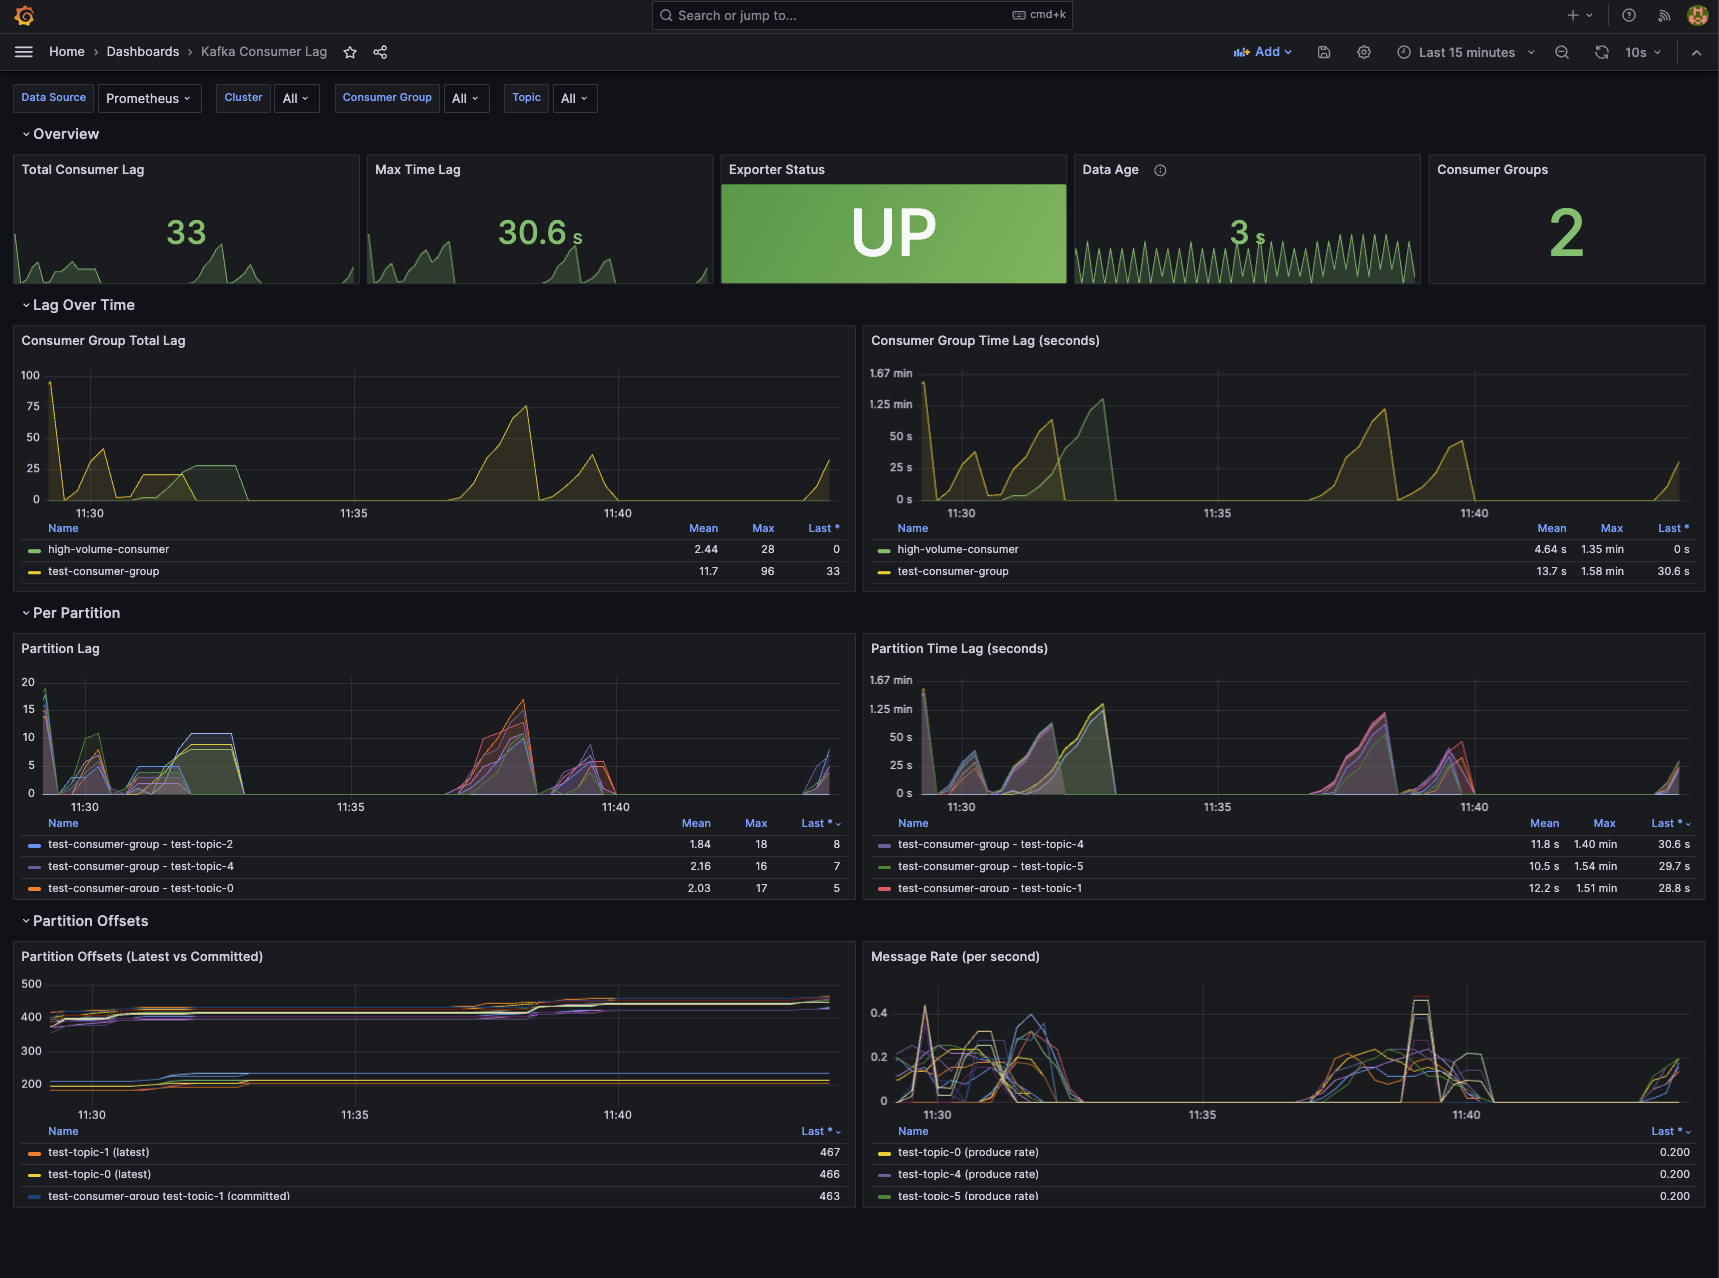
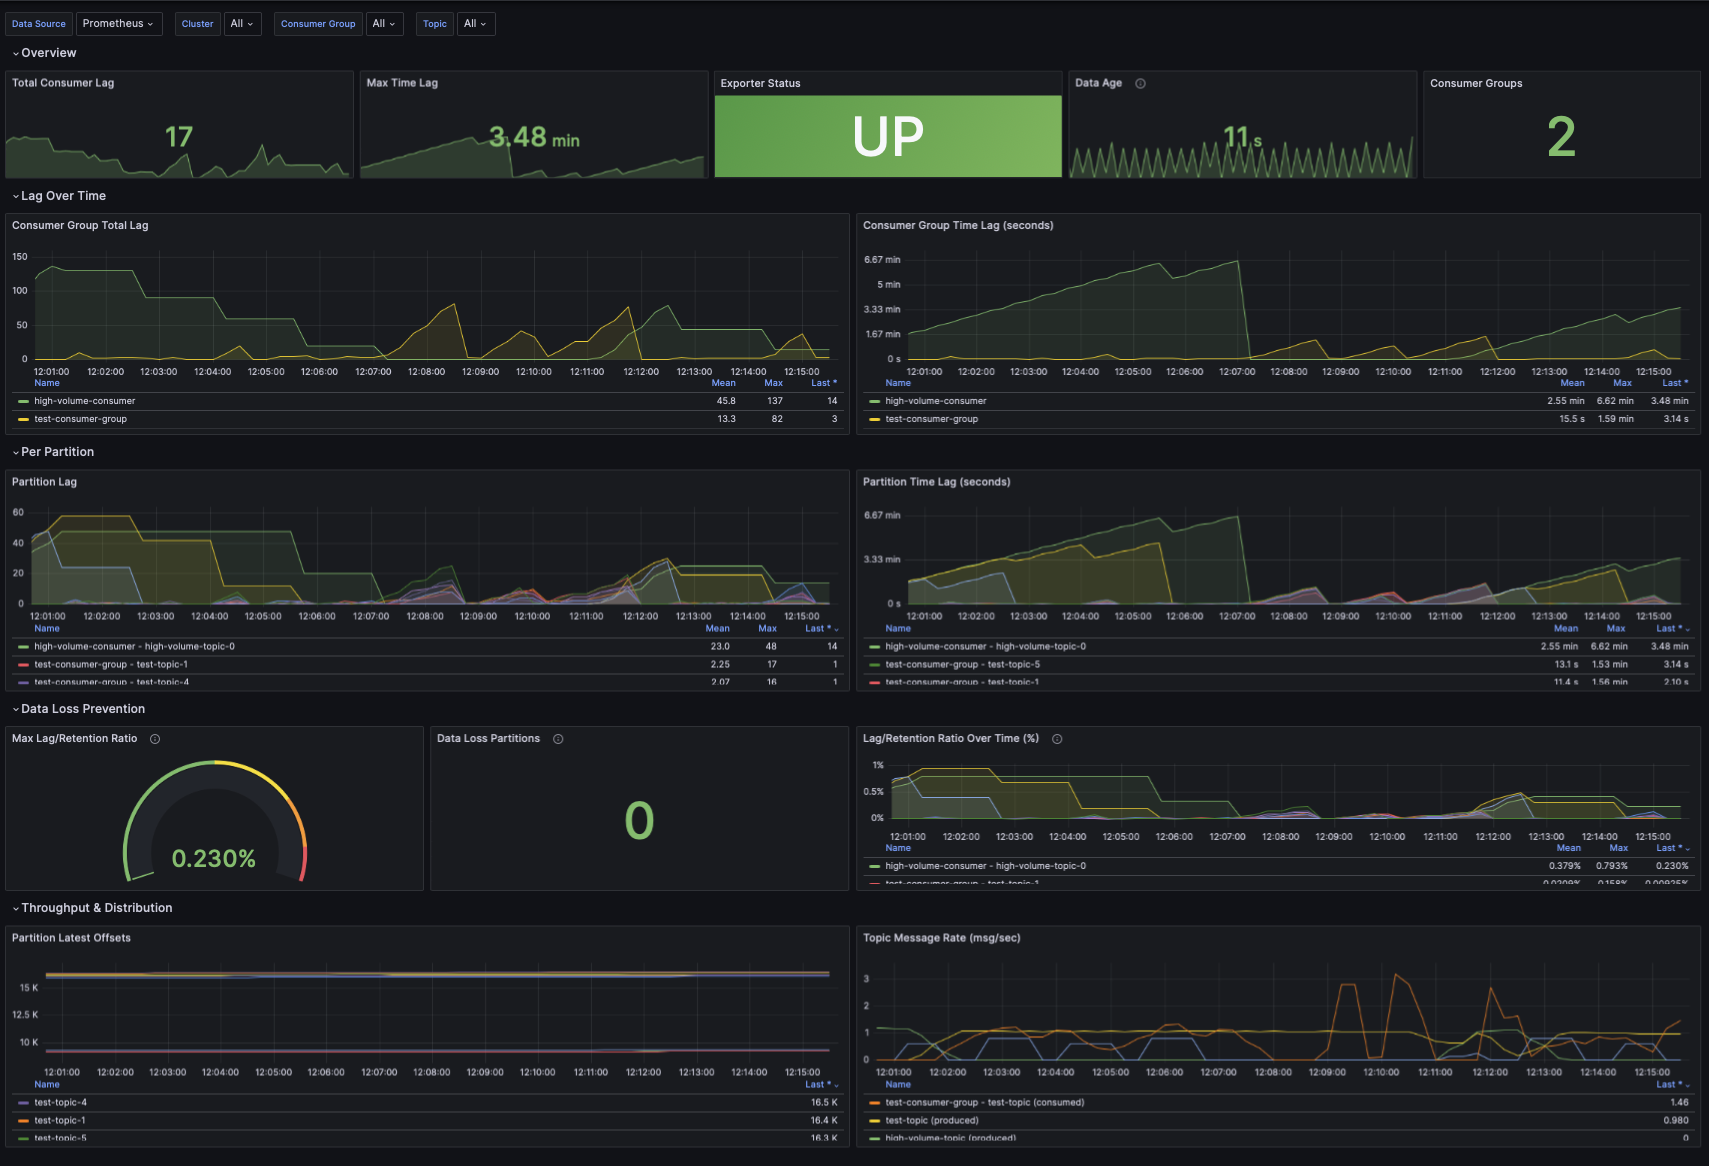
docs: add data loss detection metrics documentation
- Add Data Loss Detection to features list
  - Document new metrics: messages_lost, retention_margin, lag_retention_ratio
  - Explain lag_retention_ratio calculation formula with examples
  - Include example Prometheus alert rules for prevention and detection
  - Update label references from retention_detected to data_loss_detected
  - Replace retention_detected_total with data_loss_partitions_total metric

diff --git a/README.md b/README.md
@@ -17,6 +17,7 @@ A high-performance Apache Kafka® consumer group lag exporter written in Rust. C
 
 - **Accurate Time Lag Calculation** — Directly reads message timestamps from Kafka® partitions instead of interpolating from lookup tables
 - **Compaction & Retention Detection** — Automatically detects when log compaction or retention deletion may affect time lag accuracy
+- **Data Loss Detection** — Detects and quantifies message loss when consumers fall behind retention, with metrics for prevention alerts
 - **Dual Export Support** — Native Prometheus HTTP endpoint (`/metrics`) and OpenTelemetry OTLP export
 - **Non-blocking Scrapes** — Continuous background collection with instant metric reads (no Kafka® calls during Prometheus scrapes)
 - **Multi-cluster Support** — Monitor multiple Kafka® clusters with independent collection loops and failure isolation
@@ -68,15 +69,82 @@ Both **log compaction** (`cleanup.policy=compact`) and **retention-based deletio
 **How it happens:** When a consumer's committed offset points to a deleted message, Kafka returns the next available message instead. This message has a later timestamp, making time lag appear smaller than reality.
 
 **Detection:** klag-exporter automatically detects these conditions and exposes:
-- `compaction_detected` and `retention_detected` labels on `kafka_consumergroup_group_lag_seconds`
-- `kafka_lag_exporter_compaction_detected_total` and `kafka_lag_exporter_retention_detected_total` counters
+- `compaction_detected` and `data_loss_detected` labels on `kafka_consumergroup_group_lag_seconds`
+- `kafka_lag_exporter_compaction_detected_total` and `kafka_lag_exporter_data_loss_partitions_total` counters
 
 **Recommendations:**
 - For affected partitions, rely more on offset lag than time lag
-- Alert on `kafka_lag_exporter_compaction_detected_total > 0` or `kafka_lag_exporter_retention_detected_total > 0`
+- Alert on `kafka_lag_exporter_compaction_detected_total > 0` or `kafka_lag_exporter_data_loss_partitions_total > 0`
 - Investigate if detection counts are high — may indicate very lagging consumers or aggressive compaction/retention settings
 
 See [docs/compaction-detection.md](docs/compaction-detection.md) for detailed technical explanation.
+
+### Data Loss Detection
+
+When a consumer falls too far behind, Kafka® retention policies may delete messages before they're processed. klag-exporter detects and quantifies this:
+
+**How it works:** Data loss occurs when a consumer group's committed offset falls below the partition's low watermark (earliest available offset). This means messages were deleted by retention before the consumer could process them.
+
+**Understanding `lag_retention_ratio`:**
+
+This metric shows what percentage of the available retention window is occupied by consumer lag:
+
+```
+                    current_lag
+lag_retention_ratio = ─────────────────── × 100
+                    retention_window
+
+where:
+  retention_window = high_watermark - low_watermark  (total offsets in partition)
+  current_lag      = high_watermark - committed_offset
+```
+
+| Ratio | Meaning |
+|-------|---------|
+| 0% | Consumer is caught up (no lag) |
+| 50% | Consumer lag equals half the retention window |
+| 100% | Consumer is at the deletion boundary — next retention cycle may cause data loss |
+| >100% | Data loss has already occurred |
+
+Example: If a partition has offsets 1000-2000 (retention window = 1000) and consumer is at offset 1200:
+- current_lag = 2000 - 1200 = 800
+- lag_retention_ratio = (800 / 1000) × 100 = **80%** — consumer is 80% of the way to data loss
+
+**Metrics provided:**
+
+| Metric | Description | Example Use |
+|--------|-------------|-------------|
+| `kafka_consumergroup_group_messages_lost` | Count of messages deleted before processing | Alert when > 0 |
+| `kafka_consumergroup_group_retention_margin` | Distance to deletion boundary | Alert when approaching 0 |
+| `kafka_consumergroup_group_lag_retention_ratio` | Lag as % of retention window | Alert when > 80% |
+| `data_loss_detected` label | Boolean flag on lag metrics | Filter affected partitions |
+
+**Prevention strategy:**
+- Set alerts on `retention_margin` approaching zero (e.g., < 10% of typical lag)
+- Monitor `lag_retention_ratio` — values approaching 100% indicate imminent data loss
+- Use `messages_lost > 0` for post-incident detection
+- Consider increasing topic retention or scaling consumers when ratios are high
+
+**Example Prometheus alerts:**
+
+```yaml
+# Imminent data loss warning
+- alert: KafkaConsumerNearDataLoss
+  expr: kafka_consumergroup_group_lag_retention_ratio > 80
+  for: 5m
+  labels:
+    severity: warning
+  annotations:
+    summary: "Consumer {{ $labels.group }} approaching retention boundary"
+
+# Data loss occurred
+- alert: KafkaConsumerDataLoss
+  expr: kafka_consumergroup_group_messages_lost > 0
+  labels:
+    severity: critical
+  annotations:
+    summary: "Consumer {{ $labels.group }} lost {{ $value }} messages"
+```
 
 ## Quick Start
 
@@ -194,7 +262,15 @@ Use `${VAR_NAME}` syntax in config values. The exporter will substitute with env
 |--------|--------|-------------|
 | `kafka_consumergroup_group_offset` | cluster_name, group, topic, partition, member_host, consumer_id, client_id | Committed offset |
 | `kafka_consumergroup_group_lag` | cluster_name, group, topic, partition, member_host, consumer_id, client_id | Offset lag |
-| `kafka_consumergroup_group_lag_seconds` | cluster_name, group, topic, partition, member_host, consumer_id, client_id | Time lag in seconds |
+| `kafka_consumergroup_group_lag_seconds` | cluster_name, group, topic, partition, member_host, consumer_id, client_id, compaction_detected, data_loss_detected | Time lag in seconds |
+
+### Data Loss Detection Metrics
+
+| Metric | Labels | Description |
+|--------|--------|-------------|
+| `kafka_consumergroup_group_messages_lost` | cluster_name, group, topic, partition, member_host, consumer_id, client_id | Messages deleted by retention before consumer processed them |
+| `kafka_consumergroup_group_retention_margin` | cluster_name, group, topic, partition, member_host, consumer_id, client_id | Offset distance to deletion boundary (negative = data loss) |
+| `kafka_consumergroup_group_lag_retention_ratio` | cluster_name, group, topic, partition, member_host, consumer_id, client_id | Percentage of retention window occupied by lag (>100 = data loss) |
 
 ### Consumer Group Aggregate Metrics
 
@@ -213,7 +289,7 @@ Use `${VAR_NAME}` syntax in config values. The exporter will substitute with env
 | `kafka_lag_exporter_scrape_duration_seconds` | cluster_name | Collection cycle duration |
 | `kafka_lag_exporter_up` | — | 1 if healthy, 0 otherwise |
 | `kafka_lag_exporter_compaction_detected_total` | cluster_name | Partitions where log compaction was detected |
-| `kafka_lag_exporter_retention_detected_total` | cluster_name | Partitions where retention deletion was detected |
+| `kafka_lag_exporter_data_loss_partitions_total` | cluster_name | Partitions where data loss occurred (committed offset < low watermark) |
 
 ## HTTP Endpoints
 
